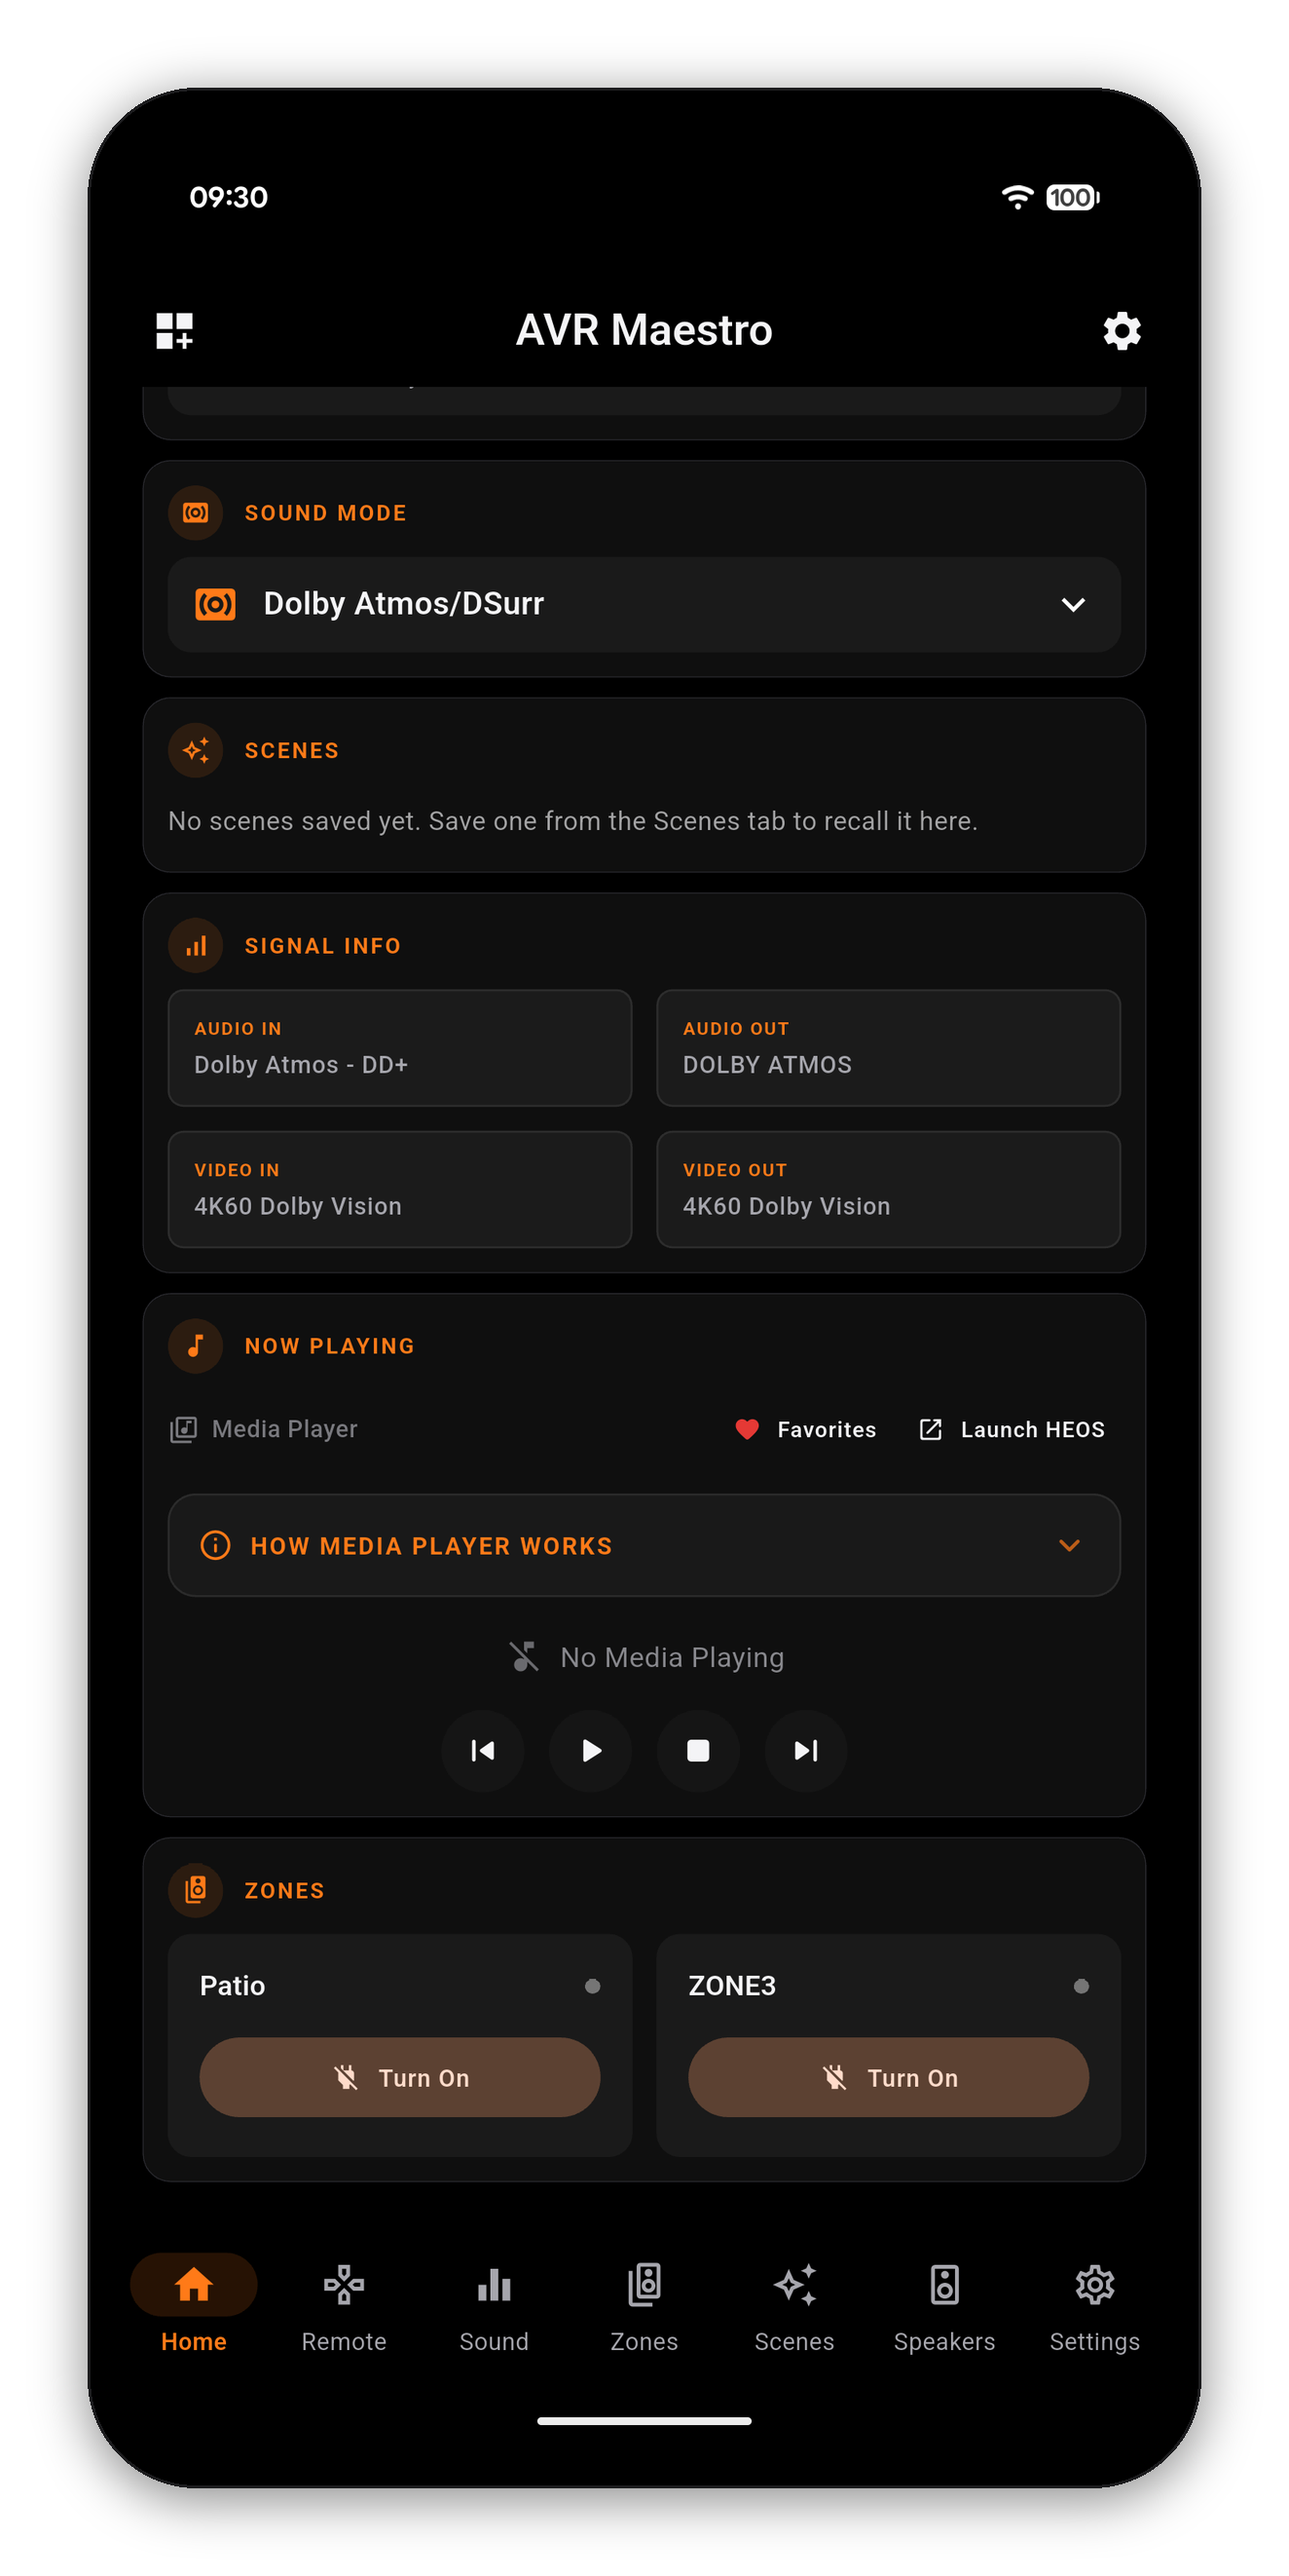
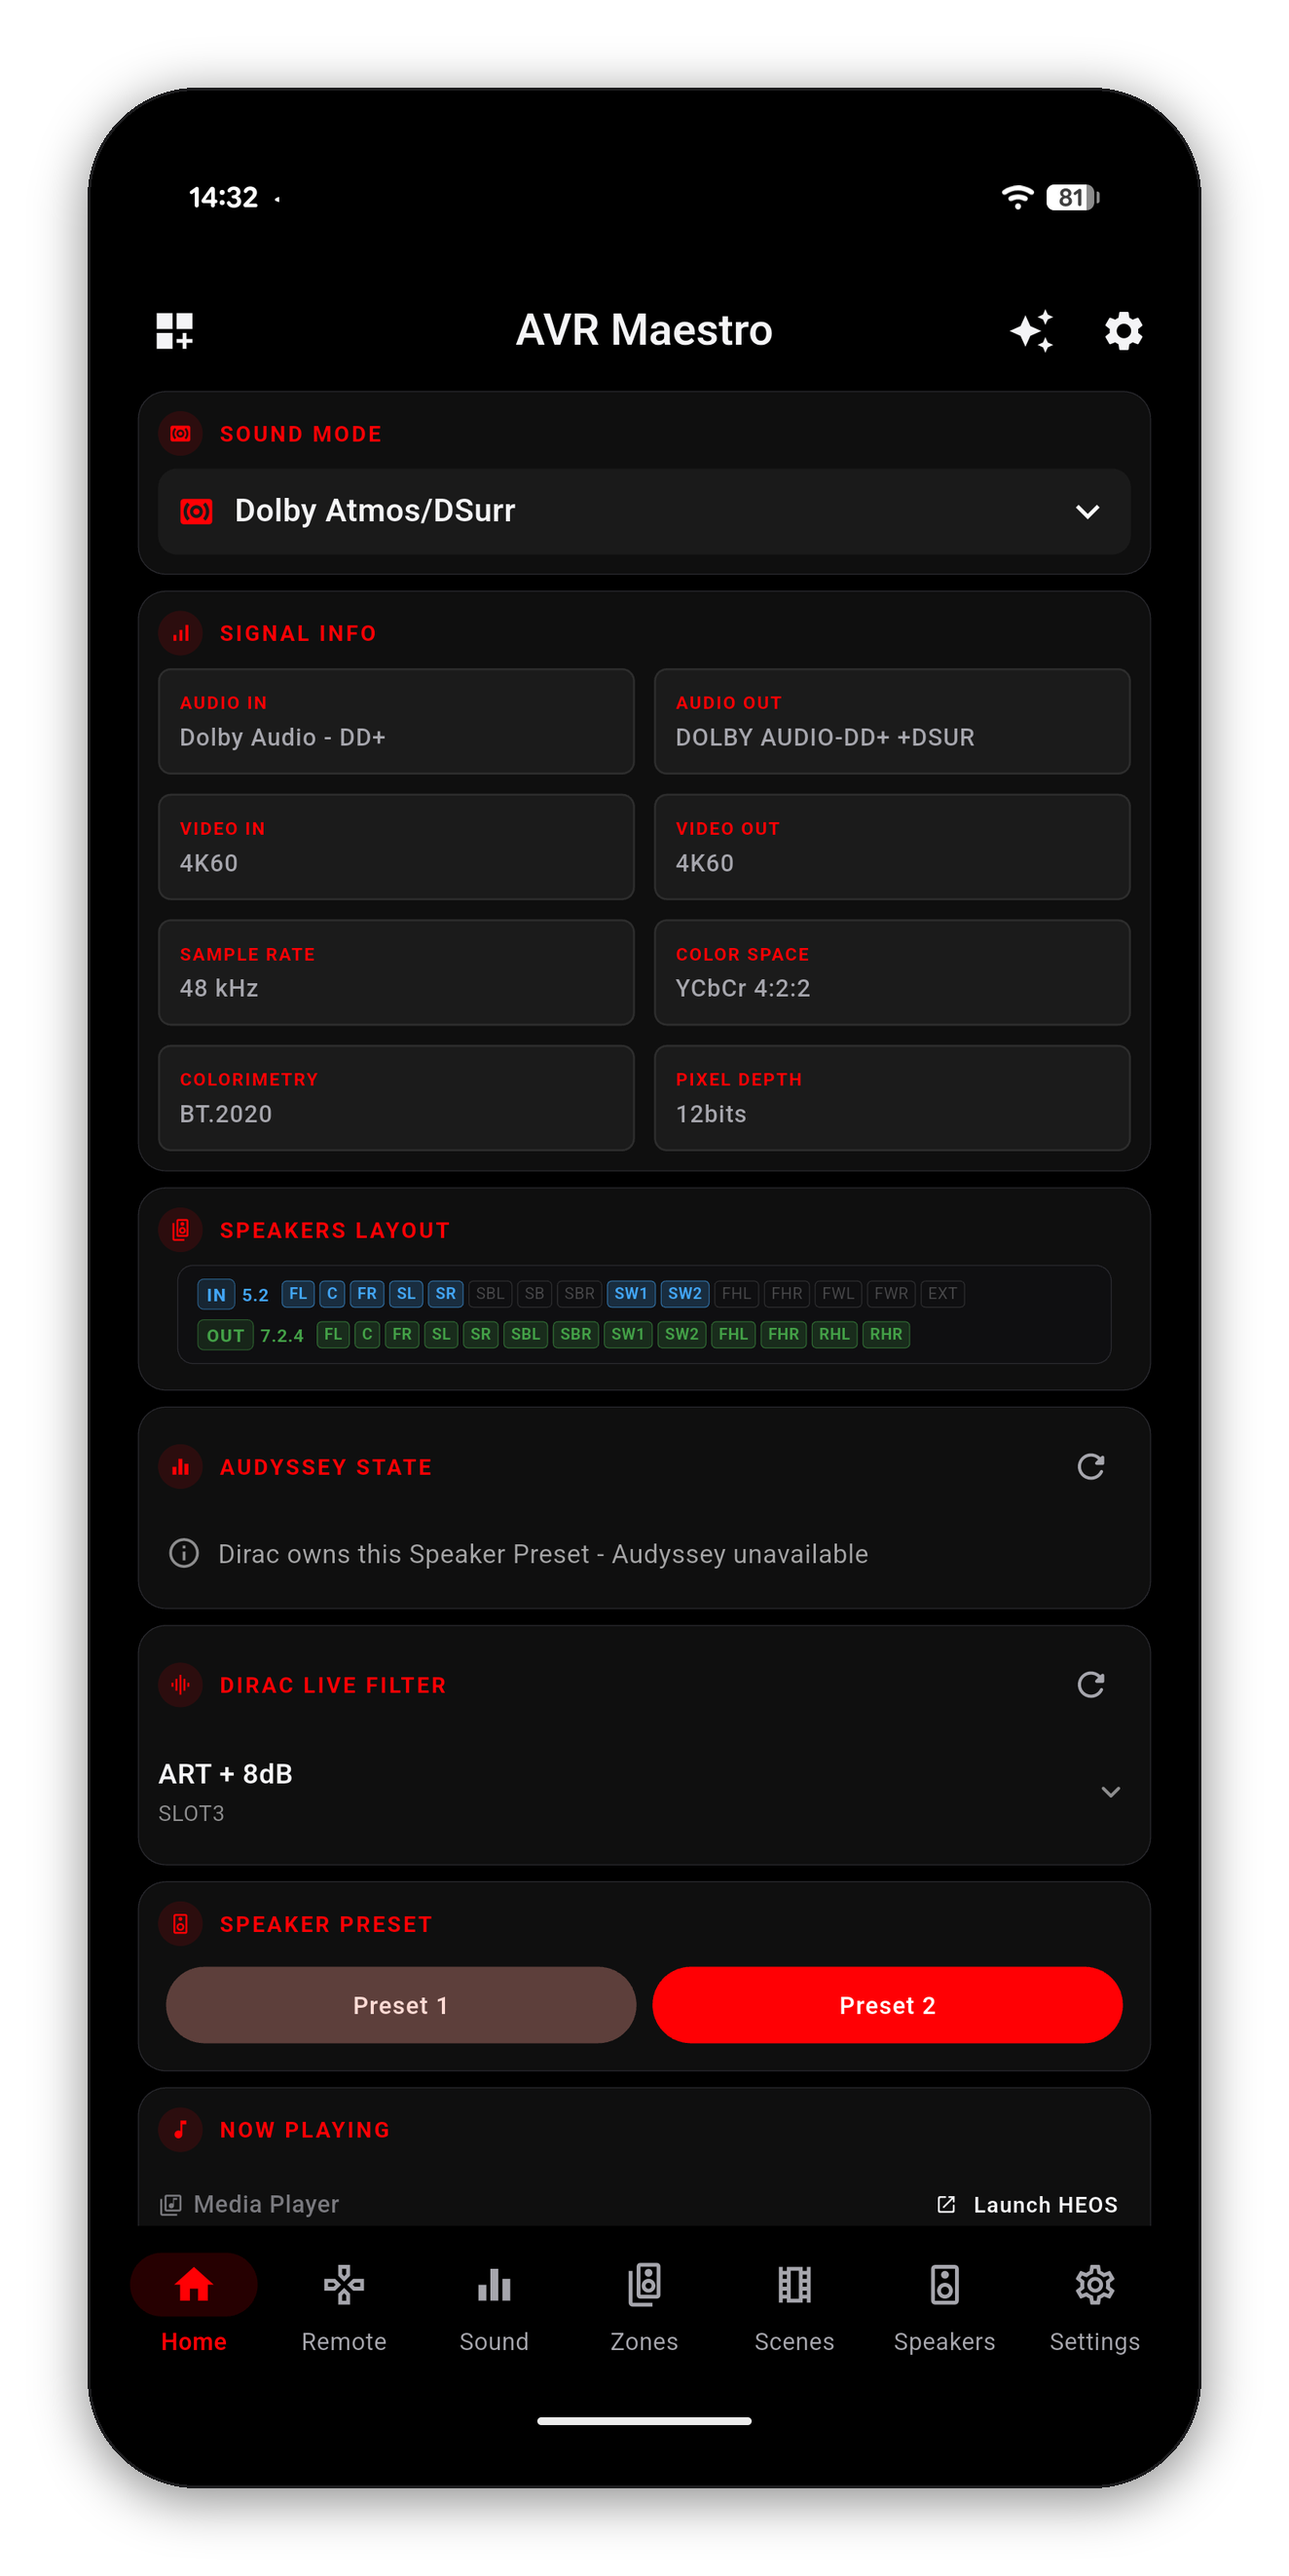
deploy 2026-09-14 0e811dd

diff --git a/docs/index.html b/docs/index.html
@@ -196,7 +196,7 @@
         <button class="shot" onclick="avrLb('screenshots/settings-main.png')" aria-label="AVR Maestro - Settings"><img src="screenshots/settings-main.png" loading="lazy" alt="AVR Maestro settings showing theme, Color Theme accent and display options" /><span class="shot-plat">Settings</span></button>
         <button class="shot" onclick="avrLb('screenshots/home-automation.png')" aria-label="AVR Maestro - Home Automation"><img src="screenshots/home-automation.png" loading="lazy" alt="AVR Maestro Home Automation for Home Assistant, Hubitat and webhooks" /><span class="shot-plat">Home Automation</span></button>
         <button class="shot" onclick="avrLb('screenshots/on-screen-display.png')" aria-label="AVR Maestro - On-Screen Display"><img src="screenshots/on-screen-display.png" loading="lazy" alt="AVR Maestro on-screen display settings - volume readout, info banner, 21:9 and screen saver" /><span class="shot-plat">On-Screen Display</span></button>
-        <button class="shot" onclick="avrLb('screenshots/signal-info.png')" aria-label="AVR Maestro - Signal"><img src="screenshots/signal-info.png" loading="lazy" alt="AVR Maestro signal info showing Dolby Atmos audio and 4K60 Dolby Vision video" /><span class="shot-plat">Signal</span></button>
+        <button class="shot" onclick="avrLb('screenshots/signal-info.png')" aria-label="AVR Maestro - Signal"><img src="screenshots/signal-info.png" loading="lazy" alt="AVR Maestro signal info showing Dolby Atmos audio, 4K60 video, sample rate, color space, colorimetry and pixel depth" /><span class="shot-plat">Signal</span></button>
         <button class="shot" onclick="avrLb('screenshots/speakers-distances.png')" aria-label="AVR Maestro - Speaker Distances"><img src="screenshots/speakers-distances.png" loading="lazy" alt="AVR Maestro - Speaker Distances" /><span class="shot-plat">Speaker Distances</span></button>
         <button class="shot" onclick="avrLb('screenshots/remote-inputs.png')" aria-label="AVR Maestro - Inputs"><img src="screenshots/remote-inputs.png" loading="lazy" alt="AVR Maestro - Inputs" /><span class="shot-plat">Inputs</span></button>
         <button class="shot" onclick="avrLb('screenshots/settings-tjmode.png')" aria-label="AVR Maestro - Themes"><img src="screenshots/settings-tjmode.png" loading="lazy" alt="AVR Maestro - Themes" /><span class="shot-plat">Themes</span></button>

diff --git a/docs/guide/assistant/index.html b/docs/guide/assistant/index.html
@@ -113,7 +113,7 @@
       </tbody>
     </table>
     <div class="gallery" style="grid-template-columns:repeat(1,1fr);max-width:320px;margin:26px 0 0">
-      <figure><img alt="The Signal Info card showing audio in, audio out, video in and video out" src="../../screenshots/signal-info.png" /><figcaption>The readings it answers from are the ones on your screens</figcaption></figure>
+      <figure><img alt="The Signal Info card showing audio in and out, video in and out, sample rate, color space, colorimetry and pixel depth" src="../../screenshots/signal-info.png" /><figcaption>The readings it answers from are the ones on your screens</figcaption></figure>
     </div>
 
     <div class="note" style="margin-top:22px">Under each answer it prints <b>what it read</b> to produce it. That line is recorded, not written by the model, so it cannot be invented - and it is the fastest way to tell a real answer from a confident-sounding wrong one.</div>
